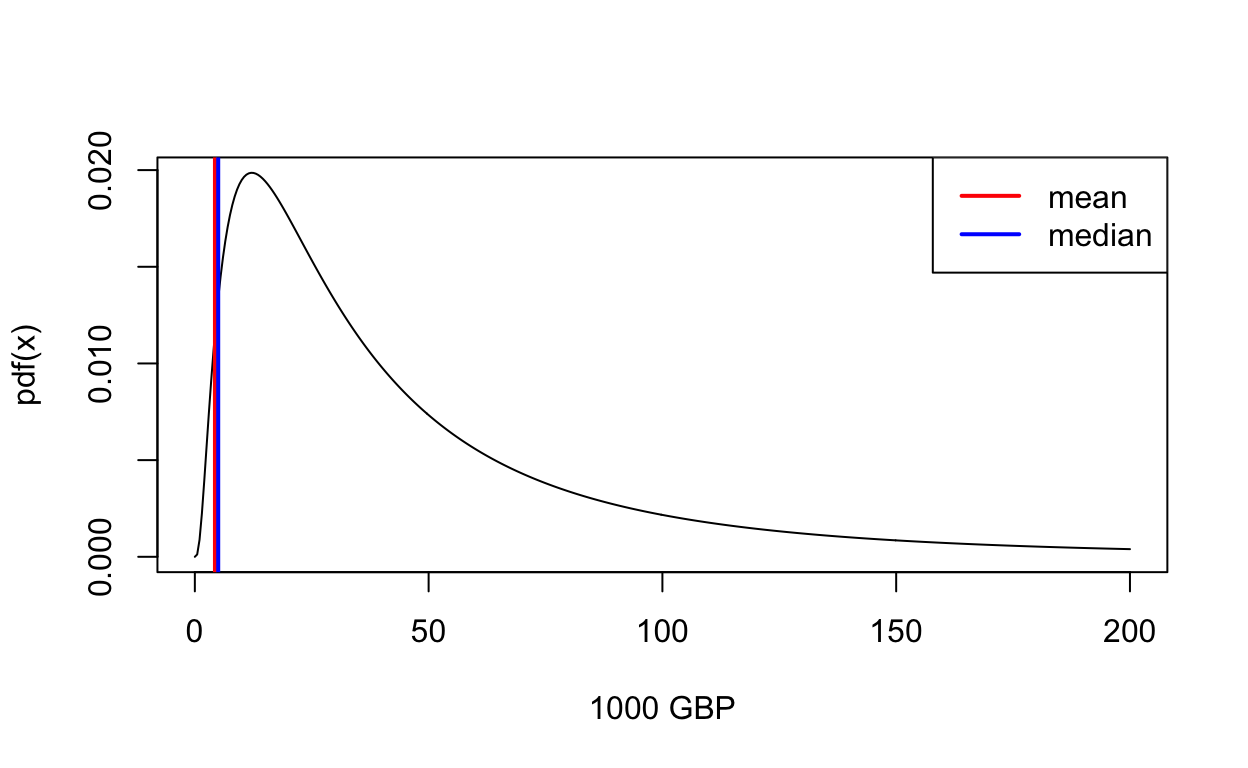
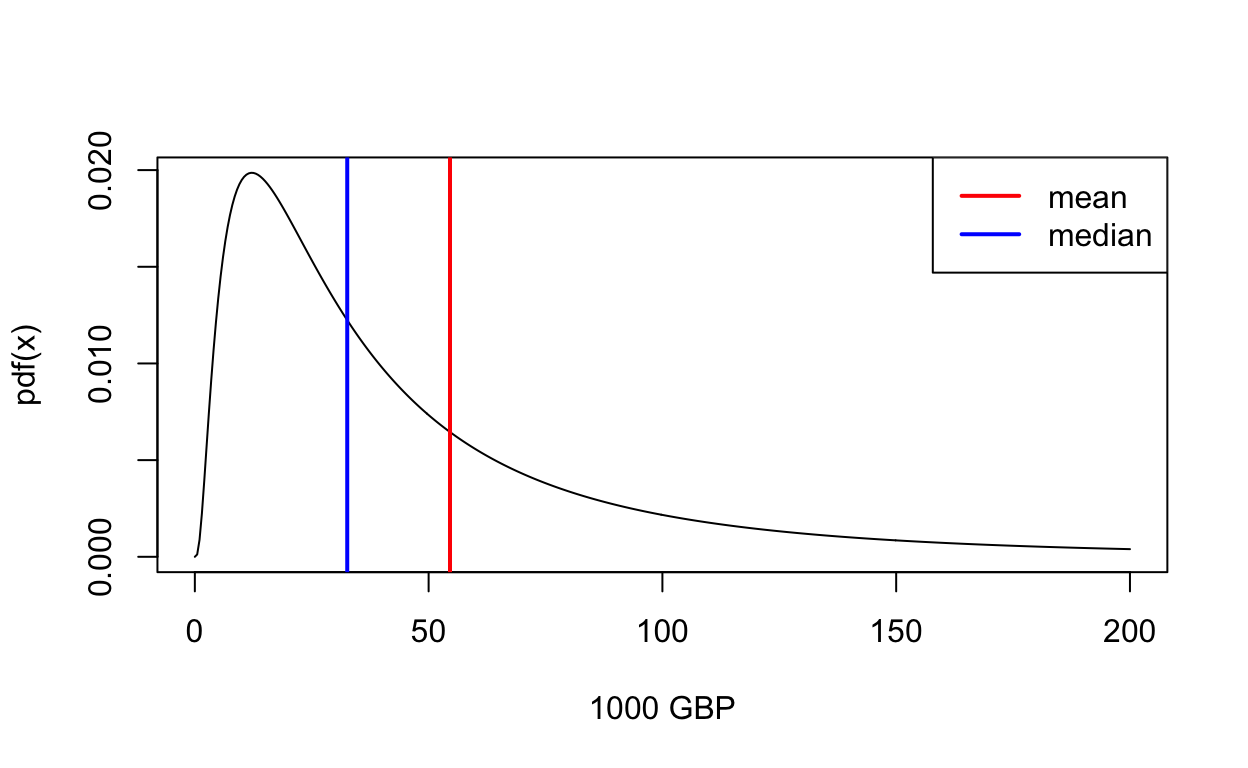
Mean & Median for distributions, small explanatory table with (some) PDFs

Changed region(s): [[0.25, 0.2188, 0.2812, 0.75], [0.1562, 0.2188, 0.1875, 0.75], [0.3438, 0.2188, 0.375, 0.7188]]

diff --git a/inst/tutorials/chapter3/chapter3.html b/inst/tutorials/chapter3/chapter3.html
@@ -90,14 +90,14 @@ p_k</code></pre>
 <tr>
 <td>
 
-<div id="htmlwidget-a97cbecc84ddafc3af98" style="width:100%;height:auto;", class = "quiz html-widget">
+<div id="htmlwidget-ac6831cbadfffda289c0" style="width:100%;height:auto;", class = "quiz html-widget">
 <div class="panel panel-default">
 <div class="panel-body quizArea">
 </div>
 </div>
 </div>
 
-<script type="application/json" data-for="htmlwidget-a97cbecc84ddafc3af98">{"x":{"question":"The mean you compute in this way compares how to our previous result?","answers":[{"option":"it&#39;s smaller","correct":false,"message":null},{"option":"it&#39;s greater","correct":false,"message":null},{"option":"it&#39;s the same","correct":true,"message":null}],"label":"quiz1-1","skipStartButton":true,"perQuestionResponseAnswers":true,"perQuestionResponseMessaging":true,"preventUnanswered":true,"displayQuestionCount":false,"displayQuestionNumber":false,"disableRanking":true,"nextQuestionText":"","checkAnswerText":"Submit Answer","allowRetry":false,"randomSortAnswers":false,"json":{"info":{"name":"","main":""},"questions":[{"q":"The mean you compute in this way compares how to our previous result?","a":[{"option":"it&#39;s smaller","correct":false,"message":null},{"option":"it&#39;s greater","correct":false,"message":null},{"option":"it&#39;s the same","correct":true,"message":null}],"correct":"Correct!","incorrect":"Incorrect."}]}},"evals":[],"jsHooks":[]}</script>
+<script type="application/json" data-for="htmlwidget-ac6831cbadfffda289c0">{"x":{"question":"The mean you compute in this way compares how to our previous result?","answers":[{"option":"it&#39;s smaller","correct":false,"message":null},{"option":"it&#39;s greater","correct":false,"message":null},{"option":"it&#39;s the same","correct":true,"message":null}],"label":"quiz1-1","skipStartButton":true,"perQuestionResponseAnswers":true,"perQuestionResponseMessaging":true,"preventUnanswered":true,"displayQuestionCount":false,"displayQuestionNumber":false,"disableRanking":true,"nextQuestionText":"","checkAnswerText":"Submit Answer","allowRetry":false,"randomSortAnswers":false,"json":{"info":{"name":"","main":""},"questions":[{"q":"The mean you compute in this way compares how to our previous result?","a":[{"option":"it&#39;s smaller","correct":false,"message":null},{"option":"it&#39;s greater","correct":false,"message":null},{"option":"it&#39;s the same","correct":true,"message":null}],"correct":"Correct!","incorrect":"Incorrect."}]}},"evals":[],"jsHooks":[]}</script>
 </td>
 </tr>
 </table>
@@ -141,14 +141,14 @@ p_k2</code></pre>
 <tr>
 <td>
 
-<div id="htmlwidget-1d0cb9a05371a32682c0" style="width:100%;height:auto;", class = "quiz html-widget">
+<div id="htmlwidget-33ff3009989a43510a80" style="width:100%;height:auto;", class = "quiz html-widget">
 <div class="panel panel-default">
 <div class="panel-body quizArea">
 </div>
 </div>
 </div>
 
-<script type="application/json" data-for="htmlwidget-1d0cb9a05371a32682c0">{"x":{"question":"Which quantities can you directly read off this plot?","answers":[{"option":"The number of distinct values in \\(x\\)","correct":true,"message":null},{"option":"The total number of observations, i.e. \\(N\\)","correct":true,"message":null},{"option":"The number of times each \\(x_k\\) appears","correct":true,"message":null},{"option":"The variance of \\(x\\)","correct":false,"message":null}],"label":"quiz3-1","skipStartButton":true,"perQuestionResponseAnswers":true,"perQuestionResponseMessaging":true,"preventUnanswered":true,"displayQuestionCount":false,"displayQuestionNumber":false,"disableRanking":true,"nextQuestionText":"","checkAnswerText":"Submit Answer","allowRetry":false,"randomSortAnswers":false,"json":{"info":{"name":"","main":""},"questions":[{"q":"Which quantities can you directly read off this plot?","a":[{"option":"The number of distinct values in \\(x\\)","correct":true,"message":null},{"option":"The total number of observations, i.e. \\(N\\)","correct":true,"message":null},{"option":"The number of times each \\(x_k\\) appears","correct":true,"message":null},{"option":"The variance of \\(x\\)","correct":false,"message":null}],"correct":"Correct!","incorrect":"Incorrect."}]}},"evals":[],"jsHooks":[]}</script>
+<script type="application/json" data-for="htmlwidget-33ff3009989a43510a80">{"x":{"question":"Which quantities can you directly read off this plot?","answers":[{"option":"The number of distinct values in \\(x\\)","correct":true,"message":null},{"option":"The total number of observations, i.e. \\(N\\)","correct":true,"message":null},{"option":"The number of times each \\(x_k\\) appears","correct":true,"message":null},{"option":"The variance of \\(x\\)","correct":false,"message":null}],"label":"quiz3-1","skipStartButton":true,"perQuestionResponseAnswers":true,"perQuestionResponseMessaging":true,"preventUnanswered":true,"displayQuestionCount":false,"displayQuestionNumber":false,"disableRanking":true,"nextQuestionText":"","checkAnswerText":"Submit Answer","allowRetry":false,"randomSortAnswers":false,"json":{"info":{"name":"","main":""},"questions":[{"q":"Which quantities can you directly read off this plot?","a":[{"option":"The number of distinct values in \\(x\\)","correct":true,"message":null},{"option":"The total number of observations, i.e. \\(N\\)","correct":true,"message":null},{"option":"The number of times each \\(x_k\\) appears","correct":true,"message":null},{"option":"The variance of \\(x\\)","correct":false,"message":null}],"correct":"Correct!","incorrect":"Incorrect."}]}},"evals":[],"jsHooks":[]}</script>
 </td>
 </tr>
 </table>
@@ -181,10 +181,42 @@ p_k2</code></pre>
 <p>A <strong>key observation</strong> is that as the number of bins <span class="math inline">\(M\)</span> increases, the histogram becomes a closer and closer approximation of the true <em>probability density function</em> that originally generated the data in <code>y</code>. Let’s try this out!</p>
 <p>Move the slider below to change how many <em>bins</em> <code>R</code> uses to summarize this distribution.</p>
 <p><div class="form-group shiny-input-container">
-<label class="control-label" for="bins">Number of bins M:</label>
-<input class="js-range-slider" id="bins" data-min="1" data-max="500" data-from="4" data-step="5" data-grid="true" data-grid-num="9.98" data-grid-snap="false" data-prettify-separator="," data-prettify-enabled="true" data-keyboard="true" data-keyboard-step="1.00200400801603" data-data-type="number"/>
+<label class="control-label" for="binz">Number of bins M:</label>
+<input class="js-range-slider" id="binz" data-min="1" data-max="500" data-from="4" data-step="5" data-grid="true" data-grid-num="9.98" data-grid-snap="false" data-prettify-separator="," data-prettify-enabled="true" data-keyboard="true" data-keyboard-step="1.00200400801603" data-data-type="number"/>
 </div><div id="distPlot" class="shiny-plot-output" style="width: 100% ; height: 400px"></div></p>
 <p>Below are some famous distributions for you to play with:</p>
+<table style="width:44%;">
+<colgroup>
+<col width="20%" />
+<col width="11%" />
+<col width="12%" />
+</colgroup>
+<thead>
+<tr class="header">
+<th align="center">Distribution</th>
+<th align="center">Range</th>
+<th align="center">PDF <span class="math inline">\(P(y)\)</span></th>
+</tr>
+</thead>
+<tbody>
+<tr class="odd">
+<td align="center">Normal</td>
+<td align="center"><span class="math inline">\((-\infty, \, +\infty)\)</span></td>
+<td align="center"><span class="math inline">\(\frac{1}{{\sigma \sqrt {2\pi}}}e^{\frac{-(y-\mu)^2}{2 \sigma^2}}\)</span></td>
+</tr>
+<tr class="even">
+<td align="center">LogNormal</td>
+<td align="center"><span class="math inline">\(]0, \, +\infty)\)</span></td>
+<td align="center"><span class="math inline">\(\frac{1}{y\sigma{\sqrt {2\pi}}}e^{\frac{-(\ln{y}-\mu)^2}{2 \sigma^2}}\)</span></td>
+</tr>
+<tr class="odd">
+<td align="center">Uniform</td>
+<td align="center"><span class="math inline">\([a, \, b]\)</span></td>
+<td align="center"><span class="math inline">\(\frac{1}{b - a}\)</span></td>
+</tr>
+</tbody>
+</table>
+<p>Along with some more exotic distribution.</p>
 <div class="container-fluid">
 <div class="col-sm-4">
 <form class="well">
@@ -197,7 +229,7 @@ p_k2</code></pre>
 <option value="rbeta">Beta</option>
 <option value="rparet">Pareto</option>
 <option value="rarcsine">Arcsine</option>
-<option value="rationorm">Ratio_2_Normals</option></select>
+<option value="rationorm">Ratio2Normals</option></select>
 <script type="application/json" data-for="dist" data-nonempty="">{}</script>
 </div>
 </div>
@@ -290,14 +322,14 @@ p_k2</code></pre>
 <tr>
 <td>
 
-<div id="htmlwidget-62668e260856b7c5a4d9" style="width:100%;height:auto;", class = "quiz html-widget">
+<div id="htmlwidget-182107f4c34e964fc5a3" style="width:100%;height:auto;", class = "quiz html-widget">
 <div class="panel panel-default">
 <div class="panel-body quizArea">
 </div>
 </div>
 </div>
 
-<script type="application/json" data-for="htmlwidget-62668e260856b7c5a4d9">{"x":{"question":"Is the median greater or smaller than the mean?","answers":[{"option":"smaller!","correct":true,"message":null},{"option":"greater!","correct":false,"message":null}],"label":"quizln-1","skipStartButton":true,"perQuestionResponseAnswers":true,"perQuestionResponseMessaging":true,"preventUnanswered":true,"displayQuestionCount":false,"displayQuestionNumber":false,"disableRanking":true,"nextQuestionText":"","checkAnswerText":"Submit Answer","allowRetry":false,"randomSortAnswers":false,"json":{"info":{"name":"","main":""},"questions":[{"q":"Is the median greater or smaller than the mean?","a":[{"option":"smaller!","correct":true,"message":null},{"option":"greater!","correct":false,"message":null}],"correct":"Correct!","incorrect":"Incorrect."}]}},"evals":[],"jsHooks":[]}</script>
+<script type="application/json" data-for="htmlwidget-182107f4c34e964fc5a3">{"x":{"question":"Is the median greater or smaller than the mean?","answers":[{"option":"smaller!","correct":true,"message":null},{"option":"greater!","correct":false,"message":null}],"label":"quizln-1","skipStartButton":true,"perQuestionResponseAnswers":true,"perQuestionResponseMessaging":true,"preventUnanswered":true,"displayQuestionCount":false,"displayQuestionNumber":false,"disableRanking":true,"nextQuestionText":"","checkAnswerText":"Submit Answer","allowRetry":false,"randomSortAnswers":false,"json":{"info":{"name":"","main":""},"questions":[{"q":"Is the median greater or smaller than the mean?","a":[{"option":"smaller!","correct":true,"message":null},{"option":"greater!","correct":false,"message":null}],"correct":"Correct!","incorrect":"Incorrect."}]}},"evals":[],"jsHooks":[]}</script>
 </td>
 </tr>
 </table>
@@ -451,7 +483,7 @@ y <- rlnorm(10000,meanlog=3.5,sdlog=1)
 <script type="application/shiny-prerendered" data-context="server">
 output$distPlot <- renderPlot({
   y2 <- y[y<500]
-  bins <- seq(min(y), max(y), length.out = input$bins + 1)
+  bins <- seq(min(y), max(y), length.out = input$binz + 1)
   hist(y, breaks = bins, col = 'darkgray', border = 'white',freq=FALSE)
   lines(density(y),col="red",lw=2)
 })
@@ -463,38 +495,63 @@ output$dPlot <- renderPlot({
   if (input$dist == 'rnorm'){ # Normal
     range <- seq(-10, 10, .1)
     plot(range,
-         dnorm(range, mean = input$mean_norm, sd = input$std_norm), "l", col = "navyblue", ylab = "Density", xlab = "x", main = "Normal Distribution")
+         dnorm(range, mean = input$mean_norm, sd = input$std_norm), "l", col = "navyblue", ylab = "Density", xlab = "y", main = "Normal Distribution")
+    abline(v=input$mean_norm ,col="red",lw=3)
+    abline(v=input$mean_norm ,col="blue",lw=1)
+    legend("topright",c("mean","median"),col=c("red","blue"),lty=c(1,1),lw=c(2,2))
     
   } else if(input$dist == 'rlnorm'){ # Log Normal
     range <- seq(0, 10, .1)
     plot(range,
-         dlnorm(range, mean = input$mean_lnorm, sd = input$std_lnorm), "l", col = "navyblue", ylab = "Density", xlab = "x", main = "Lognormal Distribution")
+         dlnorm(range, mean = input$mean_lnorm, sd = input$std_lnorm), "l", col = "navyblue", ylab = "Density", xlab = "y", main = "Lognormal Distribution")
+        abline(v=exp(input$mean_lnorm + (input$std_lnorm^2)/2) ,col="red",lw=3)
+        abline(v=exp(input$mean_lnorm) ,col="blue",lw=1)
+        legend("topright",c("mean","median"),col=c("red","blue"),lty=c(1,1),lw=c(2,2))
 
-  } else if(input$dist == 'runif'){
+
+  } else if(input$dist == 'runif'){ #uniform
     range <- seq(input$range_unif[1], input$range_unif[2], .1)
     plot(range,
-         dunif(range, min = input$range_unif[1], max = input$range_unif[2]), "l", col = "navyblue", ylab = "Density", xlab = "x", main = "Uniform Distribution")
+         dunif(range, min = input$range_unif[1], max = input$range_unif[2]), "l", col = "navyblue", ylab = "Density", xlab = "y", main = "Uniform Distribution")
+    abline(v=.5*input$b - .5*input$a,col="red",lw=3)
+    abline(v=.5*input$b - .5*input$a,col="blue",lw=1)
+    legend("topright",c("mean","median"),col=c("red","blue"),lty=c(1,1),lw=c(2,2))
     
-  } else if(input$dist == 'rbeta') {
-    range <- seq(0, 1, .01)
+  } else if(input$dist == 'rbeta') { #Beta
+    range <- seq(0.001, .999, .001)
     plot(range,
-         dbeta(range, shape1 = input$alpha, shape2 = input$beta), "l", col = "navyblue", ylab = "Density", xlab = "x", main = "Beta Distribution")
+         dbeta(range, shape1 = input$alpha, shape2 = input$beta), "l", col = "navyblue", ylab = "Density", xlab = "y", main = "Beta Distribution")
+    abline(v=(input$alpha/ (input$alpha + input$beta)), col="red",lw=3)
+    #abline(v=input$location * 2^(1/input$shape) ,col="blue",lw=1) Median of the Beta function -> no general closed-form...
+    legend("topright",c("mean","median"),col=c("red","blue"),lty=c(1,1),lw=c(2,2))
     
-  } else if(input$dist == 'rparet'){
+  } else if(input$dist == 'rparet'){ #Pareto
     range <- seq(0, 10, .1)
     plot(range,
-         dpareto(range, location = input$location, shape = input$shape), "l", col = "navyblue", ylab = "Density", xlab = "x", main = "Pareto Distribution")
+         dpareto(range, location = input$location, shape = input$shape), "l", col = "navyblue", ylab = "Density", xlab = "y", main = "Pareto Distribution")
+    abline(v=(input$shape * input$location)/(input$shape -1),col="red",lw=3)
+    abline(v=input$location * 2^(1/input$shape) ,col="blue",lw=1)
+    legend("topright",c("mean","median"),col=c("red","blue"),lty=c(1,1),lw=c(2,2))
     
-  } else if(input$dist == 'rarcsine'){
+    
+  } else if(input$dist == 'rarcsine'){ #Arcsine
     A <- distr::Arcsine()
-    range <- seq(-1, 1, 0.01)
+    range <- seq(-.99, .99, 0.01)
     plot(range,
-         d(A)(range), "l", col = "navyblue", ylab = "Density", xlab = "x", main = "Arcsine Distribution")
-  } else if (input$dist == 'rationorm') {
+         d(A)(range), "l", col = "navyblue", ylab = "Density", xlab = "y", main = "Arcsine Distribution")
+    abline(v=0, col="red",lw=3)
+    abline(v=0, col="blue",lw=1)
+    legend("topright",c("mean","median"),col=c("red","blue"),lty=c(1,1),lw=c(2,2))
+
+    
+  } else if (input$dist == 'rationorm') { # Ratio of 2 Normal Distributions (TODO: explain clearly what is being done.)
     range <- seq(-5, 5, .1)
     plot(range,
          (input$a + dnorm(range, mean = 0, sd = 1)) / (input$b + dnorm(range, mean = 0, sd = 1)),
-          "l", col = "navyblue", ylab = "Density", xlab = "x", main = "Ratio of 2 Normal Distributions")
+          "l", col = "navyblue", ylab = "Density", xlab = "y", main = "Ratio of 2 Normal Distributions")
+    abline(v=0, col="red",lw=3)
+    abline(v=0, col="blue",lw=1)
+    legend("topright",c("mean","median"),col=c("red","blue"),lty=c(1,1),lw=c(2,2))
   }
 })
 </script>
@@ -533,8 +590,10 @@ output$distPlot2 <- renderPlot({
 output$distPlot3 <- renderPlot({
   set.seed(2)
   nsample = rnorm(n=input$ssize,mean=5,sd=2)
-  hist(nsample,col = 'darkgray', border = 'white',freq=FALSE,main=paste0("Histogram with N = ",input$ssize))
+  hist(nsample,col = 'darkgray', border = 'white',freq=FALSE,main=paste0("Histogram with N = ",input$ssize), xlim = c(0, 10))
   lines(density(nsample),col="red",lw=2)
+  lines(seq(0, 10, .01), dnorm(x = seq(0, 10, .01), mean = 5, sd = 2), col = 'green')
+  legend("bottom",c("Normal Distribution","Sampling Distribution"),col=c("green","red"),lty=c(1,1),lw=c(2,2), cex = 0.75)
 })
 output$estTable <- renderTable({
   set.seed(2)
